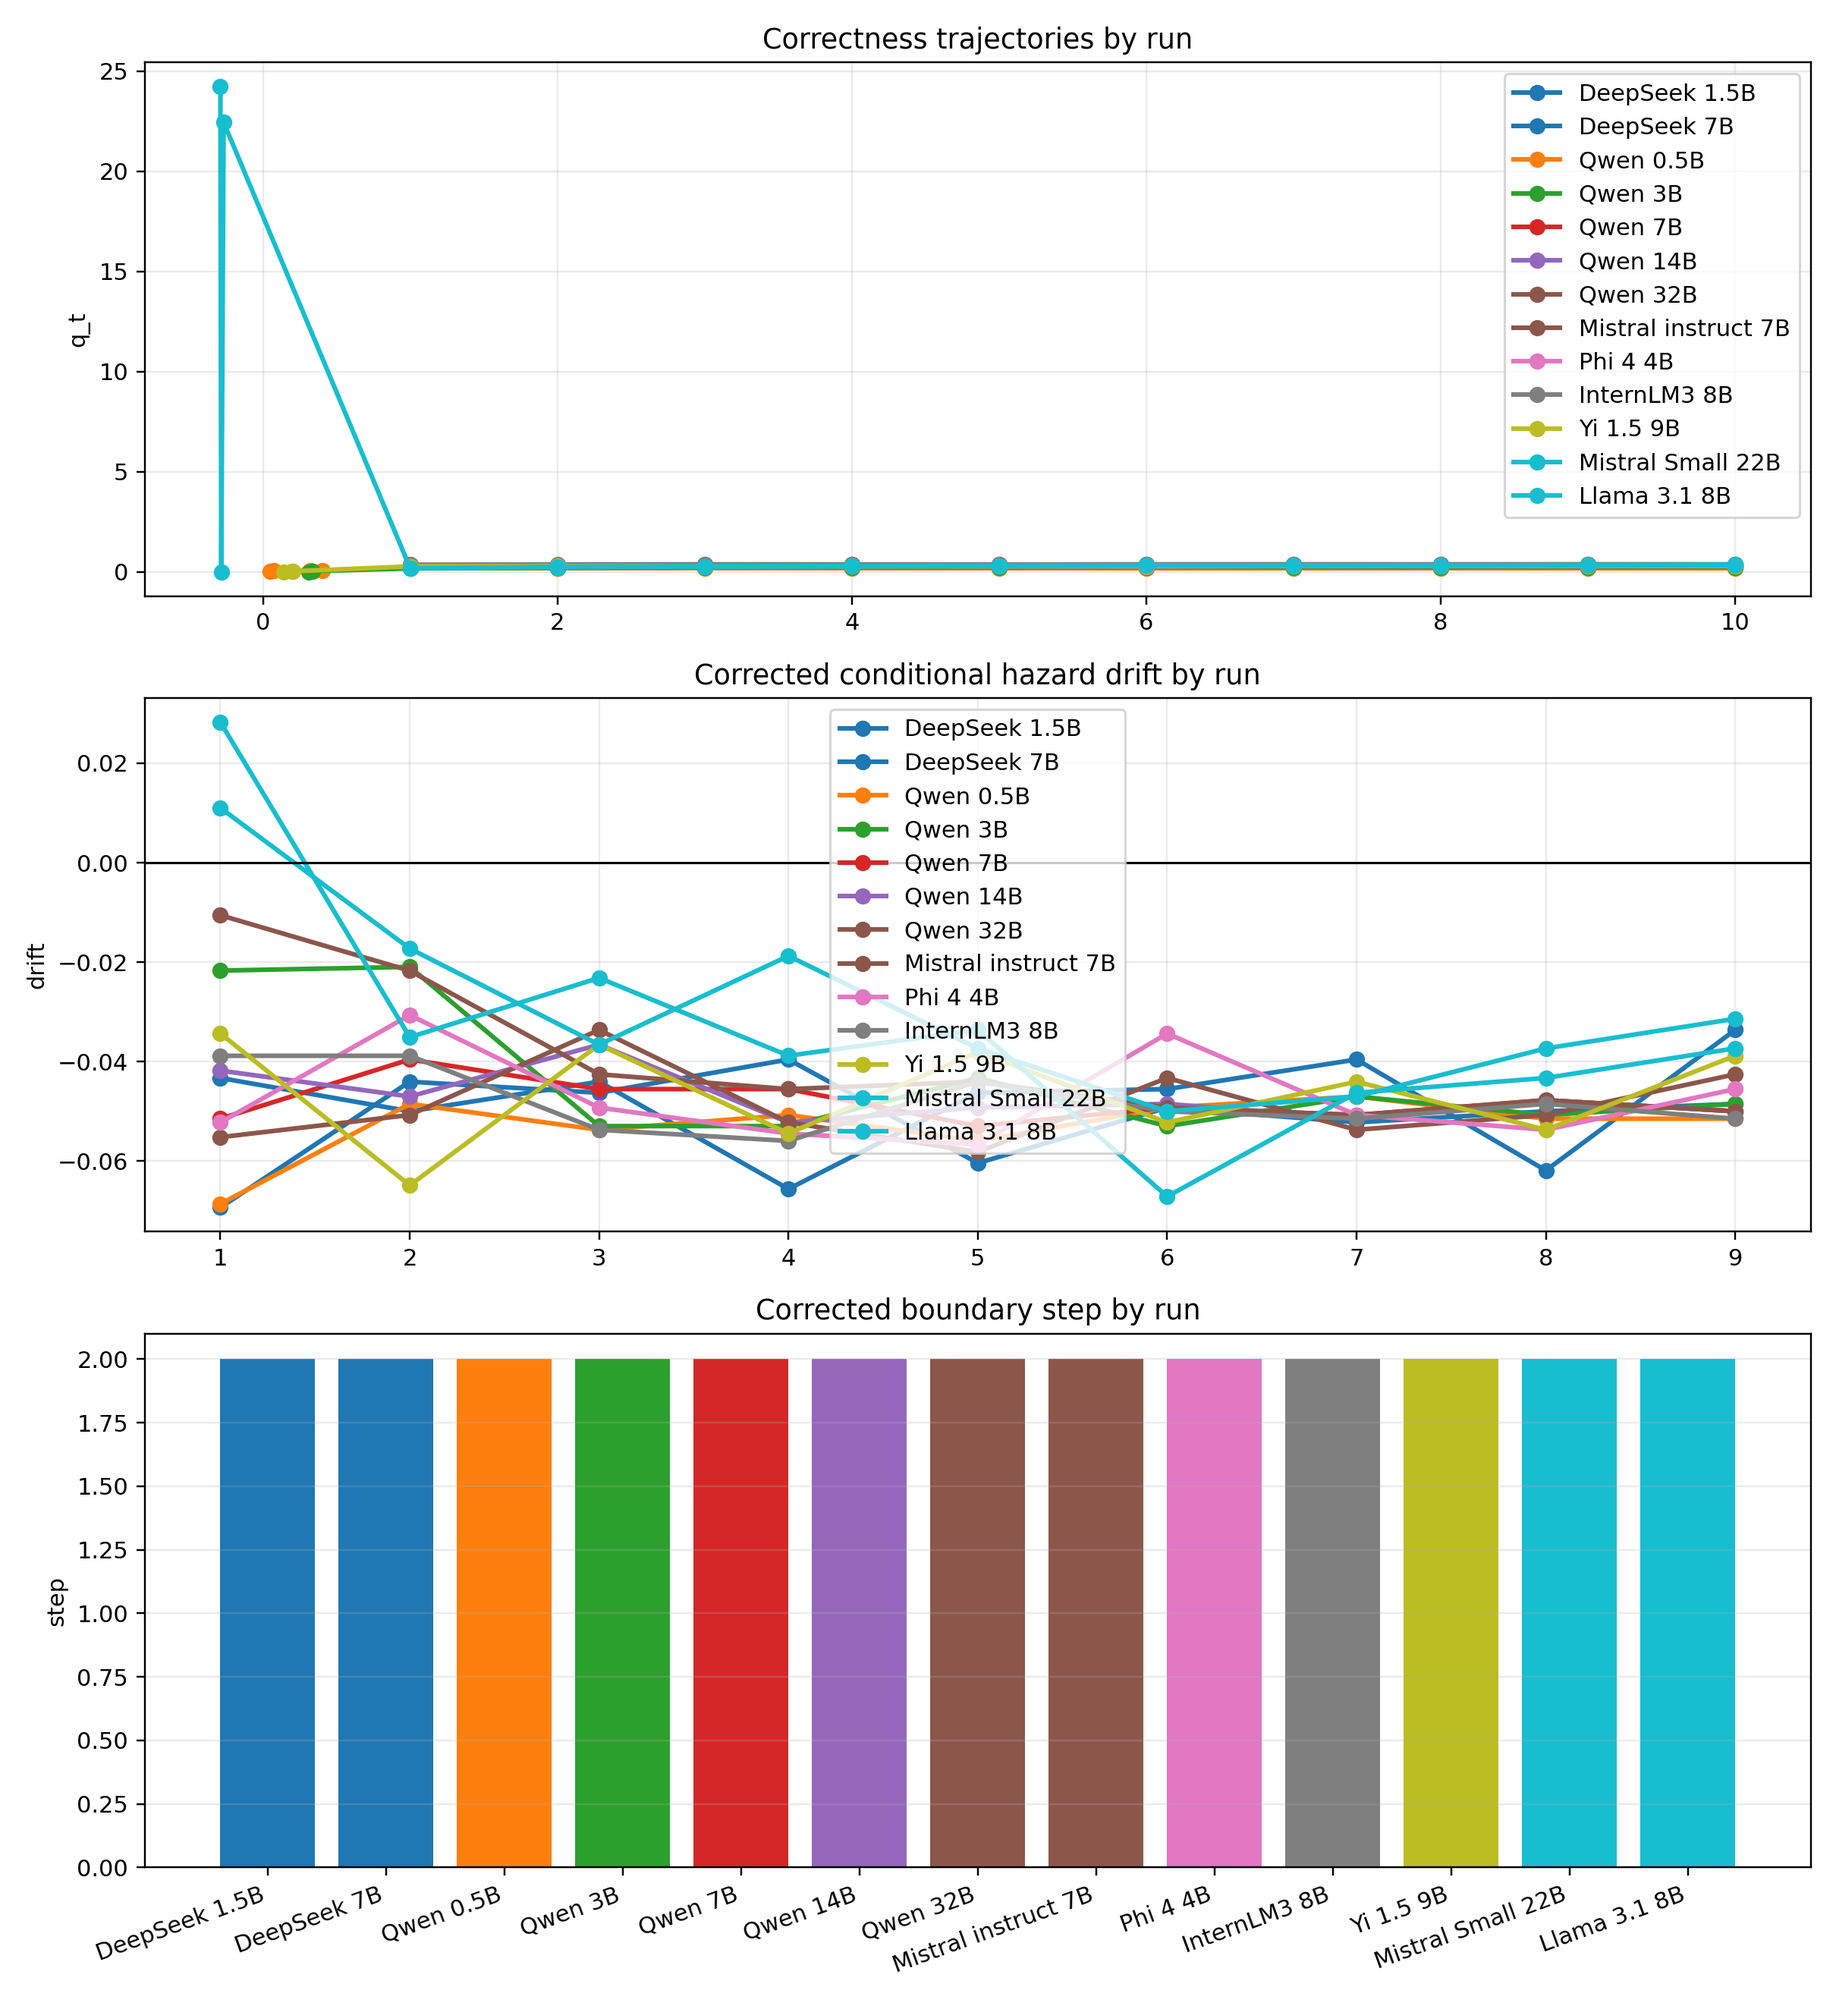
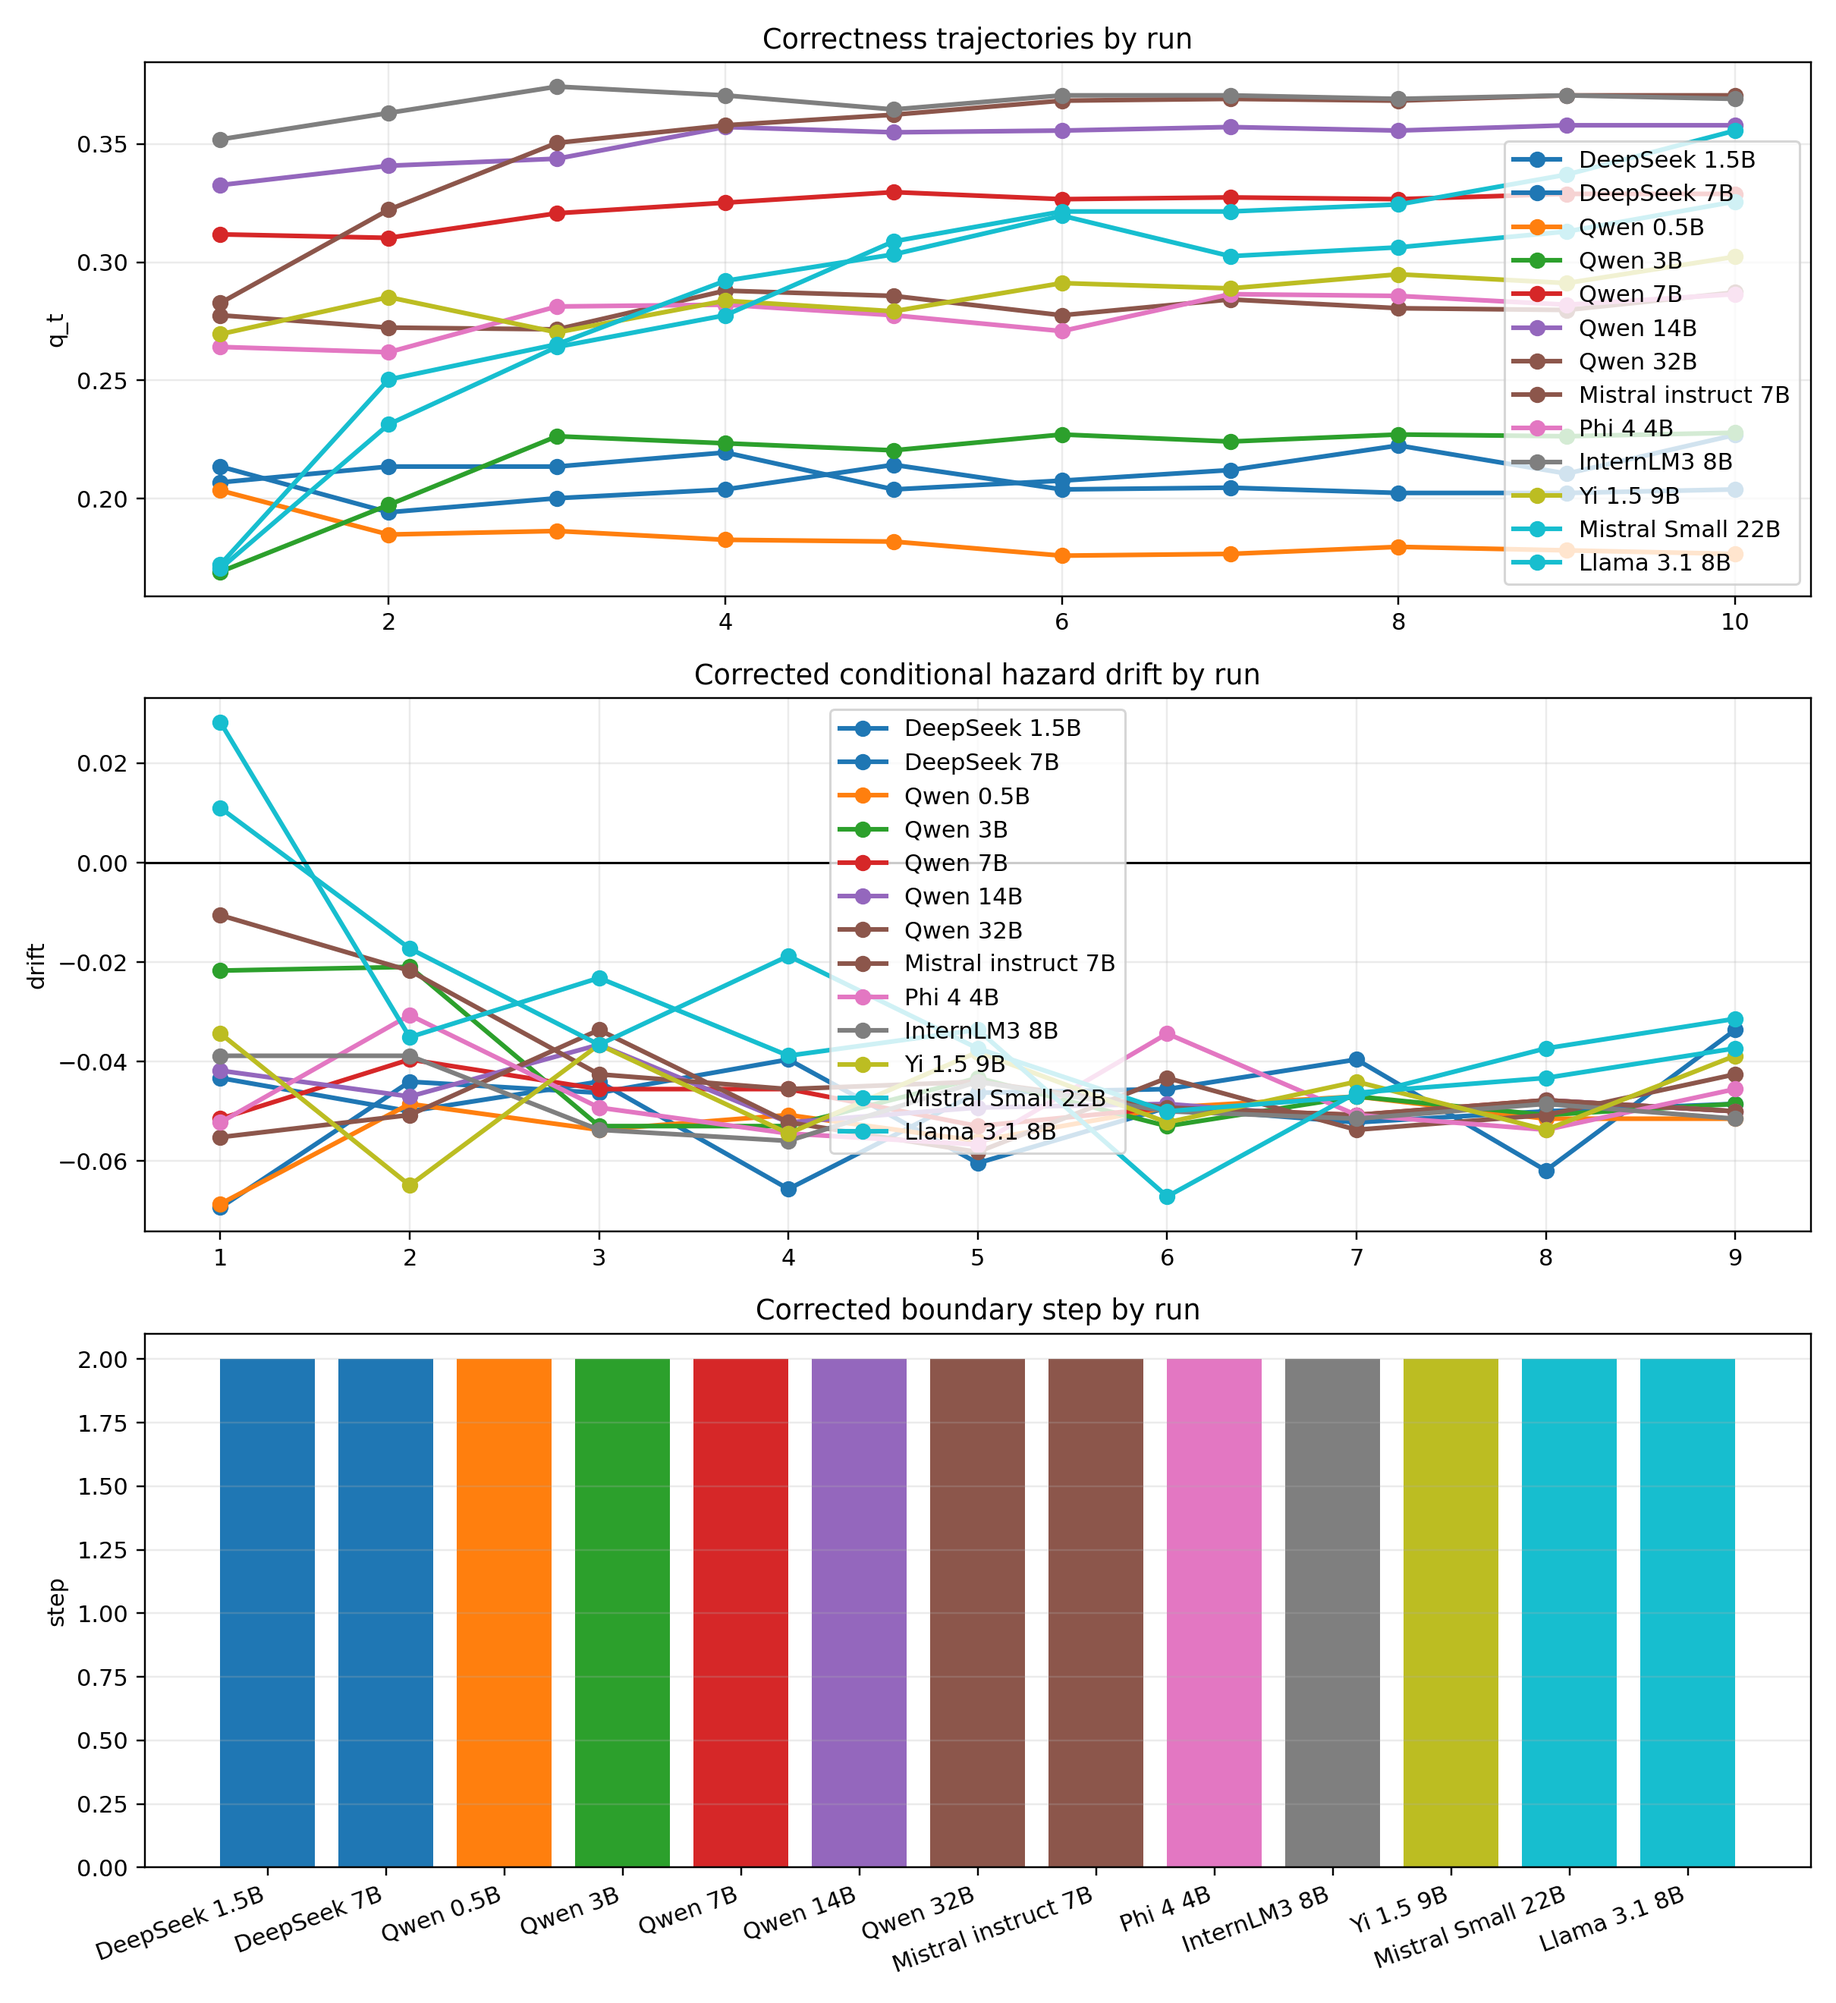
fix(aggregate): sanitize trace_steps before q_t curve in cross-family
cross_family_analysis loaded trace_steps.csv raw and did groupby(step).correct.mean(),
so hard-kill-corrupted rows (step=0, a confidence-like value in correct) inflated the
accuracy curve -- e.g. llama x gpqa reported peak acc 24.23 at step 0. Apply the same
_sanitize_step_frame guard, then regenerate all 4 aggregates. All peak accs now in [0,1].

Changed region(s): [[0.093, 0.0311, 0.9607, 0.3106], [0.031, 0.1553, 0.062, 0.1864]]

diff --git a/research/cross_family_analysis.py b/research/cross_family_analysis.py
@@ -21,7 +21,7 @@ from generate_thesis_artifacts import (
     pooled_proxy_column,
     safe_float,
 )
-from trace_analysis import add_temporal_features, fit_global_models
+from trace_analysis import add_temporal_features, fit_global_models, _sanitize_step_frame
 
 
 REPO_ROOT = Path(__file__).resolve().parents[1]
@@ -167,6 +167,10 @@ def load_run_record(run_dir: Path) -> dict[str, Any]:
     weights = read_csv(run_dir / "feature_weights.csv")
     metadata = read_json(run_dir / "metadata.json")
     steps = read_csv(run_dir / "trace_steps.csv")
+    # Drop hard-kill-corrupted rows (field-shift puts non-0/1 values into `correct`
+    # and step=0 into `step`, which otherwise inflate the q_t accuracy curve -- e.g.
+    # a bogus peak accuracy of 24.23 for llama x gpqa). Same guard as the per-cell analyze.
+    steps, _n_corrupt = _sanitize_step_frame(steps)
     hazard = load_corrected_hazard(run_dir)
 
     summary = pilot.iloc[0]

diff --git a/research/outputs/experiment_matrix/_aggregate/gpqa/CROSS_FAMILY_REPORT.md b/research/outputs/experiment_matrix/_aggregate/gpqa/CROSS_FAMILY_REPORT.md
@@ -10,17 +10,17 @@ Task IDs align across all 13 runs under the shared GSM8K train split and shuffle
 | --- | --- | --- | --- | --- | --- | --- | --- | --- | --- | --- | --- | --- | --- | --- | --- | --- |
 | DeepSeek 1.5B | DeepSeek-R1 distill | 1.5B | transformers+torch(cuda) | none | 0.2068 | 0.2269 | 10 | 2 | 0.1016 | 0.3663 | 0.2029 | 0.2034 | 0.5900 | 0.2489 | 0.5325 | No late-boundary replication |
 | DeepSeek 7B | DeepSeek-R1 distill | 7B | transformers+torch(cuda) | none | 0.2135 | 0.2143 | 5 | 2 | 0.1059 | 0.4183 | 0.2505 | 0.3407 | 0.6399 | 0.2476 | 0.5502 | No late-boundary replication |
-| Qwen 0.5B | Qwen2.5 instruct | 0.5B | transformers+torch(cuda) | none | 0.2039 | 0.2039 | 1 | 2 | 0.0271 | 0.1342 | 0.0666 | 0.0544 | 0.4626 | 0.2485 | 0.5452 | No late-boundary replication |
-| Qwen 3B | Qwen2.5 instruct | 3B | transformers+torch(cuda) | none | 0.1690 | 0.2277 | 10 | 2 | 0.0345 | 0.1053 | 0.1324 | 0.1375 | 0.4860 | 0.2459 | 0.5729 | No late-boundary replication |
+| Qwen 0.5B | Qwen2.5 instruct | 0.5B | transformers+torch(cuda) | none | 0.2034 | 0.2034 | 1 | 2 | 0.0271 | 0.1342 | 0.0666 | 0.0544 | 0.4626 | 0.2485 | 0.5452 | No late-boundary replication |
+| Qwen 3B | Qwen2.5 instruct | 3B | transformers+torch(cuda) | none | 0.1690 | 0.2278 | 10 | 2 | 0.0345 | 0.1053 | 0.1324 | 0.1375 | 0.4860 | 0.2459 | 0.5729 | No late-boundary replication |
 | Qwen 7B | Qwen2.5 instruct | 7B | transformers+torch(cuda) | none | 0.3118 | 0.3296 | 5 | 2 | 0.0245 | 0.0473 | 0.0777 | 0.0631 | 0.4445 | 0.2493 | 0.5316 | No late-boundary replication |
 | Qwen 14B | Qwen2.5 instruct | 14B | transformers+torch(cuda) | none | 0.3326 | 0.3579 | 9 | 2 | 0.0176 | 0.0257 | 0.0791 | 0.0491 | 0.4320 | 0.2493 | 0.5373 | No late-boundary replication |
 | Qwen 32B | Qwen2.5 instruct | 32B | transformers+torch(cuda) | none | 0.2827 | 0.3705 | 9 | 2 | 0.0276 | 0.0289 | 0.0923 | 0.1058 | 0.4358 | 0.2480 | 0.5370 | No late-boundary replication |
 | Mistral instruct 7B | Mistral instruct | 7B | transformers+torch(cuda) | none | 0.2775 | 0.2879 | 4 | 2 | 0.0518 | 0.1309 | 0.1599 | 0.1671 | 0.5355 | 0.2497 | 0.5209 | No late-boundary replication |
 | Phi 4 4B | Phi 4 | 4B | transformers+torch(cuda) | none | 0.2641 | 0.2865 | 7 | 2 | 0.0889 | 0.2255 | 0.2210 | 0.2629 | 0.5881 | 0.2480 | 0.5486 | No late-boundary replication |
 | InternLM3 8B | InternLM3 | 8B | transformers+torch(cuda) | none | 0.3519 | 0.3743 | 3 | 2 | 0.0310 | 0.0491 | 0.0837 | 0.0633 | 0.4573 | 0.2494 | 0.5266 | No late-boundary replication |
-| Yi 1.5 9B | Yi 1.5 | 9B | transformers+torch(cuda) | none | 0.2695 | 0.3021 | 10 | 2 | 0.0452 | 0.1023 | 0.1306 | 0.1125 | 0.4954 | 0.2488 | 0.5167 | No late-boundary replication |
+| Yi 1.5 9B | Yi 1.5 | 9B | transformers+torch(cuda) | none | 0.2695 | 0.3023 | 10 | 2 | 0.0452 | 0.1023 | 0.1306 | 0.1125 | 0.4954 | 0.2488 | 0.5167 | No late-boundary replication |
 | Mistral Small 22B | Mistral Small | 22B | transformers+torch(cuda) | none | 0.1704 | 0.3557 | 10 | 2 | 0.0556 | 0.0793 | 0.2228 | 0.2613 | 0.4828 | 0.2405 | 0.6138 | No late-boundary replication |
-| Llama 3.1 8B | Llama 3.1 | 8B | transformers+torch(cuda) | none | 0.1727 | 24.2293 | 0 | 2 | 0.1005 | 0.2105 | 0.3382 | 0.4358 | 0.6298 | 0.2446 | 0.5715 | No late-boundary replication |
+| Llama 3.1 8B | Llama 3.1 | 8B | transformers+torch(cuda) | none | 0.1721 | 0.3256 | 10 | 2 | 0.1005 | 0.2105 | 0.3382 | 0.4358 | 0.6298 | 0.2446 | 0.5715 | No late-boundary replication |
 
 ## Drift Audit
 | Run | Empirical boundary | Corrected boundary | Fitted boundary | Legacy pooled proxy | Mismatch |

diff --git a/research/outputs/experiment_matrix/_aggregate/math/CROSS_FAMILY_REPORT.md b/research/outputs/experiment_matrix/_aggregate/math/CROSS_FAMILY_REPORT.md
@@ -18,7 +18,7 @@ Task IDs align across all 13 runs under the shared GSM8K train split and shuffle
 | Mistral instruct 7B | Mistral instruct | 7B | transformers+torch(cuda) | none | 0.0733 | 0.0733 | 1 | 2 | 0.0087 | 0.1423 | 0.1490 | 0.0523 | 0.6257 | 0.2209 | 0.7097 | No late-boundary replication |
 | Phi 4 4B | Phi 4 | 4B | transformers+torch(cuda) | none | 0.0887 | 0.1373 | 10 | 2 | 0.0594 | 0.4521 | 0.2536 | 0.2105 | 0.7399 | 0.2002 | 0.7356 | No late-boundary replication |
 | InternLM3 8B | InternLM3 | 8B | transformers+torch(cuda) | none | 0.1120 | 0.2540 | 14 | 2 | 0.0272 | 0.0588 | 0.1893 | 0.1284 | 0.6117 | 0.2072 | 0.7463 | No late-boundary replication |
-| Yi 1.5 9B | Yi 1.5 | 9B | transformers+torch(cuda) | none | 0.1167 | 0.1553 | 14 | 2 | 0.0232 | 0.1248 | 0.1953 | 0.0946 | 0.6592 | 0.2242 | 0.7044 | No late-boundary replication |
+| Yi 1.5 9B | Yi 1.5 | 9B | transformers+torch(cuda) | none | 0.1167 | 0.1554 | 14 | 2 | 0.0232 | 0.1248 | 0.1953 | 0.0946 | 0.6592 | 0.2242 | 0.7044 | No late-boundary replication |
 | Mistral Small 22B | Mistral Small | 22B | transformers+torch(cuda) | none | 0.0200 | 0.3113 | 14 | 2 | 0.0395 | 0.1047 | 0.3503 | 0.2286 | 0.5479 | 0.1815 | 0.8146 | No late-boundary replication |
 | Llama 3.1 8B | Llama 3.1 | 8B | transformers+torch(cuda) | none | 0.0287 | 0.2113 | 14 | 2 | 0.0371 | 0.1405 | 0.2811 | 0.2800 | 0.6760 | 0.2109 | 0.7496 | No late-boundary replication |
 
